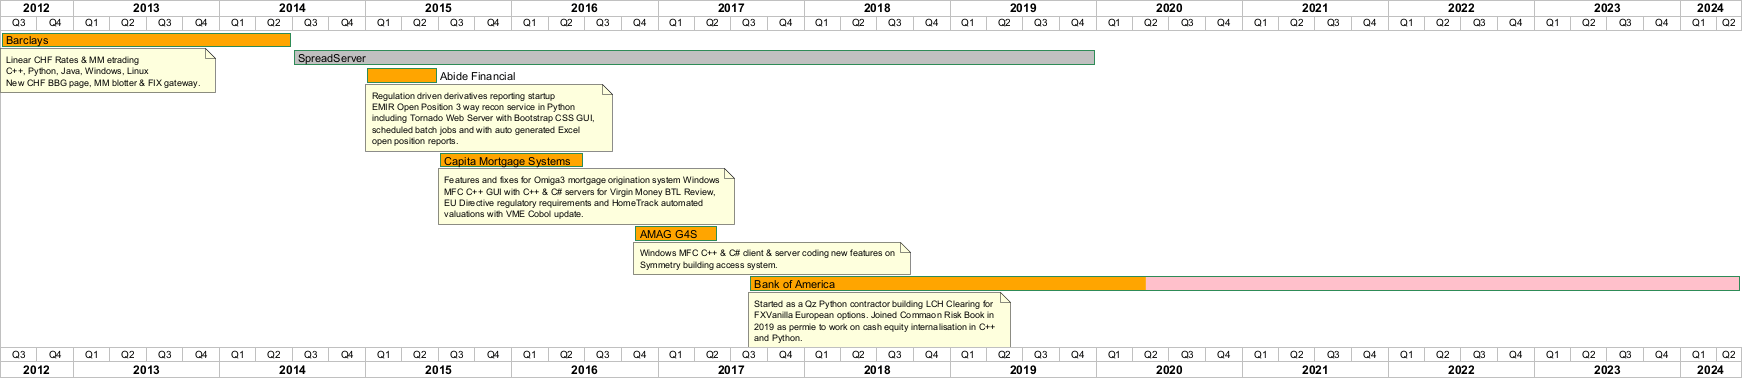
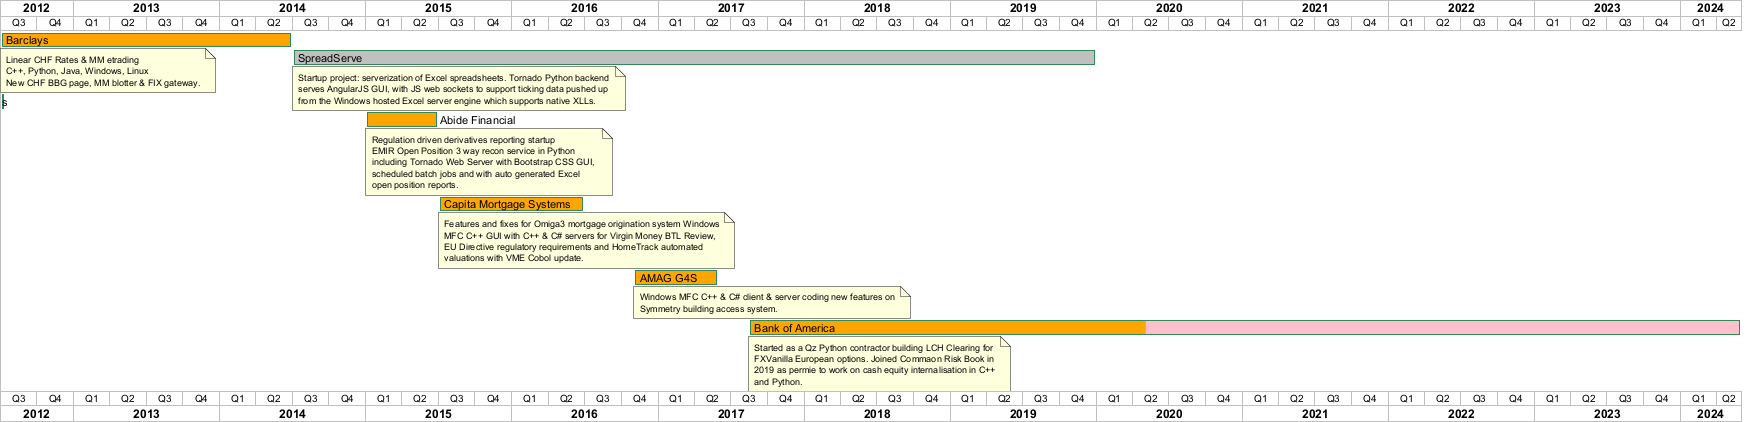
SpreadServe wiki page

Changed region(s): [[0.0, 0.0, 0.9994, 0.9894]]

diff --git a/index.html b/index.html
@@ -24,16 +24,23 @@
         </tr>
         <tr>
           <td>
-<map id="career1_map" name="career1_map">
-<area shape="rect" id="id1" href="https://www.amazon.co.uk/Enterprise-Client-Server-Technology-Processing/dp/1850321469?th=1" title="https://www.amazon.co.uk/Enterprise-Client-Server-Technology-Processing/dp/1850321469?th=1" alt="" coords="634,157,710,171"/>
-<area shape="rect" id="id2" href="https://en.wikipedia.org/wiki/Chase_Bank" title="Chase Manhattan" alt="" coords="878,50,1410,64"/>
-<area shape="rect" id="id3" href="https://www.slb.com/products-and-services/delivering-digital-at-scale/software/eclipse-industry-reference-reservoir-simulator/eclipse" title="Reservoir Simulation" alt="" coords="2,33,874,46"/>
-</map>
+            <map id="career1_map" name="career1_map">
+              <area shape="rect" id="id1" href="https://www.amazon.co.uk/Enterprise-Client-Server-Technology-Processing/dp/1850321469?th=1" title="https://www.amazon.co.uk/Enterprise-Client-Server-Technology-Processing/dp/1850321469?th=1" alt="" coords="634,157,710,171"/>
+              <area shape="rect" id="id2" href="https://en.wikipedia.org/wiki/Chase_Bank" title="Chase Manhattan" alt="" coords="878,50,1410,64"/>
+              <area shape="rect" id="id3" href="https://www.slb.com/products-and-services/delivering-digital-at-scale/software/eclipse-industry-reference-reservoir-simulator/eclipse" title="Reservoir Simulation" alt="" coords="2,33,874,46"/>
+            </map>
             <img src="career1.png" usemap="#career1_map">
           </td>
         </tr>
         <tr><td><img src="career2.png"></td></tr>
-        <tr><td><img src="career3.png"></td></tr>
+        <tr>
+          <td>
+            <map id="career3_map" name="career3_map">
+              <area shape="rect" id="id1" href="https://github.com/osullivj/cvitae/wiki/SpreadServe" title="SpreadServe Story" alt="" coords="2,94,3,108"/>
+            </map>
+            <img src="career3.png" usemap="#career3_map">
+          </td>
+        </tr>
       </tbody>
     </table>
     </body>
